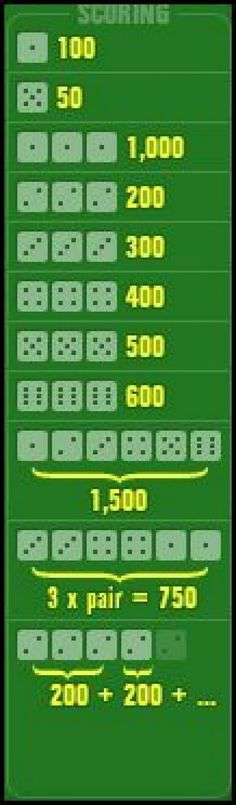
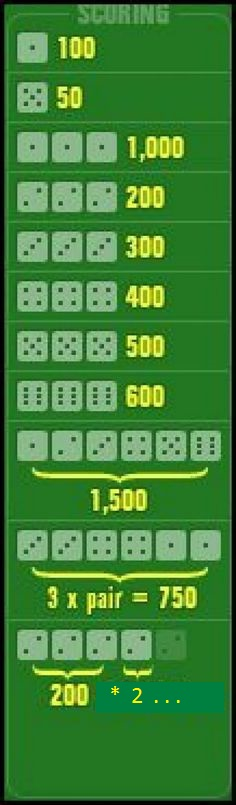
Resolved issue 12, updated scoring function.

Changed region(s): [[0.3856, 0.8385, 0.9492, 0.9006]]

diff --git a/farkle-csc478/src/test/java/com/lotsofun/farkle/GameCalculateScoreTest.java b/farkle-csc478/src/test/java/com/lotsofun/farkle/GameCalculateScoreTest.java
@@ -150,19 +150,19 @@ public class GameCalculateScoreTest {
 		score = game.calculateScore(roll, false);
 		assertEquals(0, score);
 		
-		/*
+		
 		// Test that a roll with negative number integers returns null
-		roll.add(-1);
-		roll.add(-5);
-		score = game.calculateScore(roll, true);
-		assertEquals(null, score);
-		score = game.calculateScore(roll, false);
-		assertEquals(null, score);
+//		roll.add(-1);
+//		roll.add(-5);
+//		score = game.calculateScore(roll, true);
+//		assertEquals(null, score);
+//		score = game.calculateScore(roll, false);
+//		assertEquals(null, score);
 		
 		// Test that passing null to the calculateScore method returns null
-		assertEquals(null, game.calculateScore(null, true));
-		assertEquals(null, game.calculateScore(null, false));
-		*/
+		/*assertEquals(null, game.calculateScore(null, true));
+		assertEquals(null, game.calculateScore(null, false));*/
+		
 	}
 	
 	/**

diff --git a/farkle-csc478/src/main/java/com/lotsofun/farkle/FarkleUI.java b/farkle-csc478/src/main/java/com/lotsofun/farkle/FarkleUI.java
@@ -375,11 +375,11 @@ public class FarkleUI extends JFrame {
 
 	public void rollDice() {
 		// Test farkle roll
-//		dice[0].setValue(2);
+//		dice[0].setValue(1);
 //		dice[1].setValue(2);
 //		dice[2].setValue(3);
 //		dice[3].setValue(4);
-//		dice[4].setValue(4);
+//		dice[4].setValue(5);
 //		dice[5].setValue(6);
 
 		// Roll all the dice
